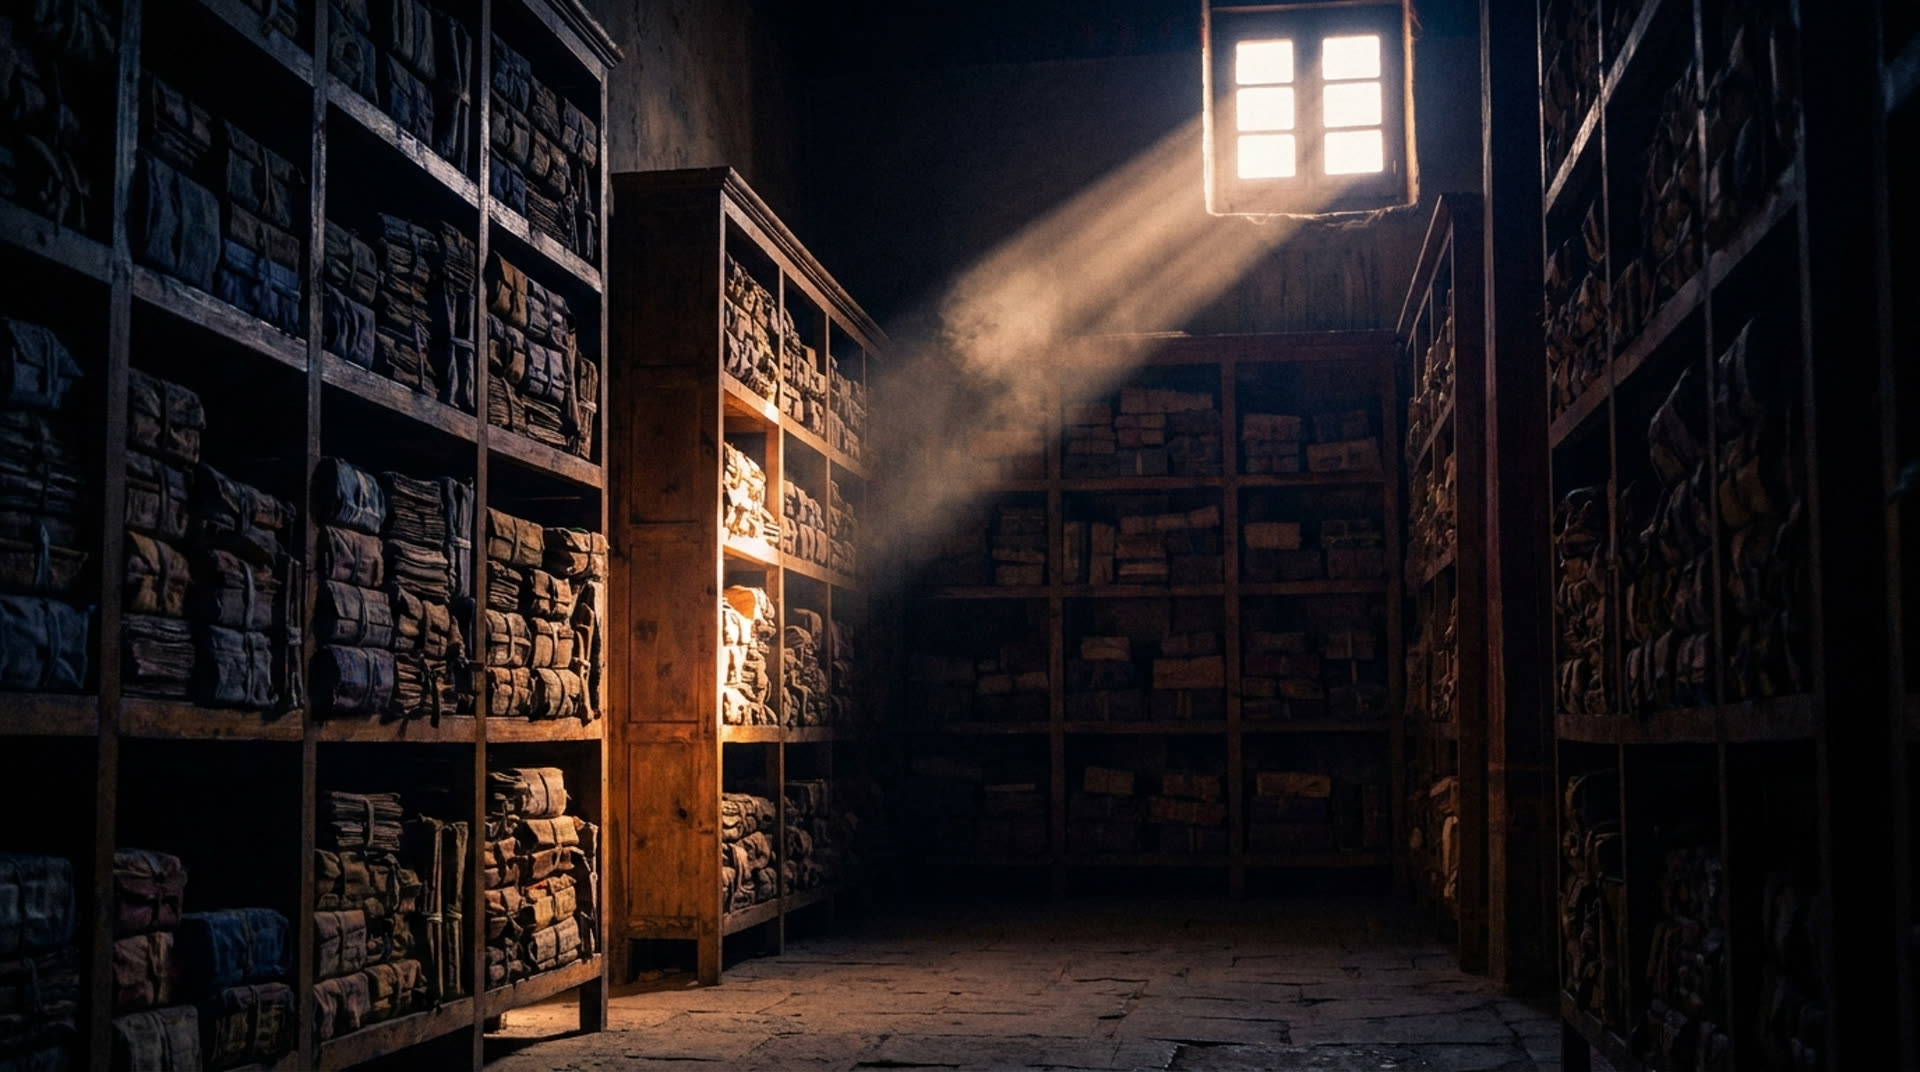
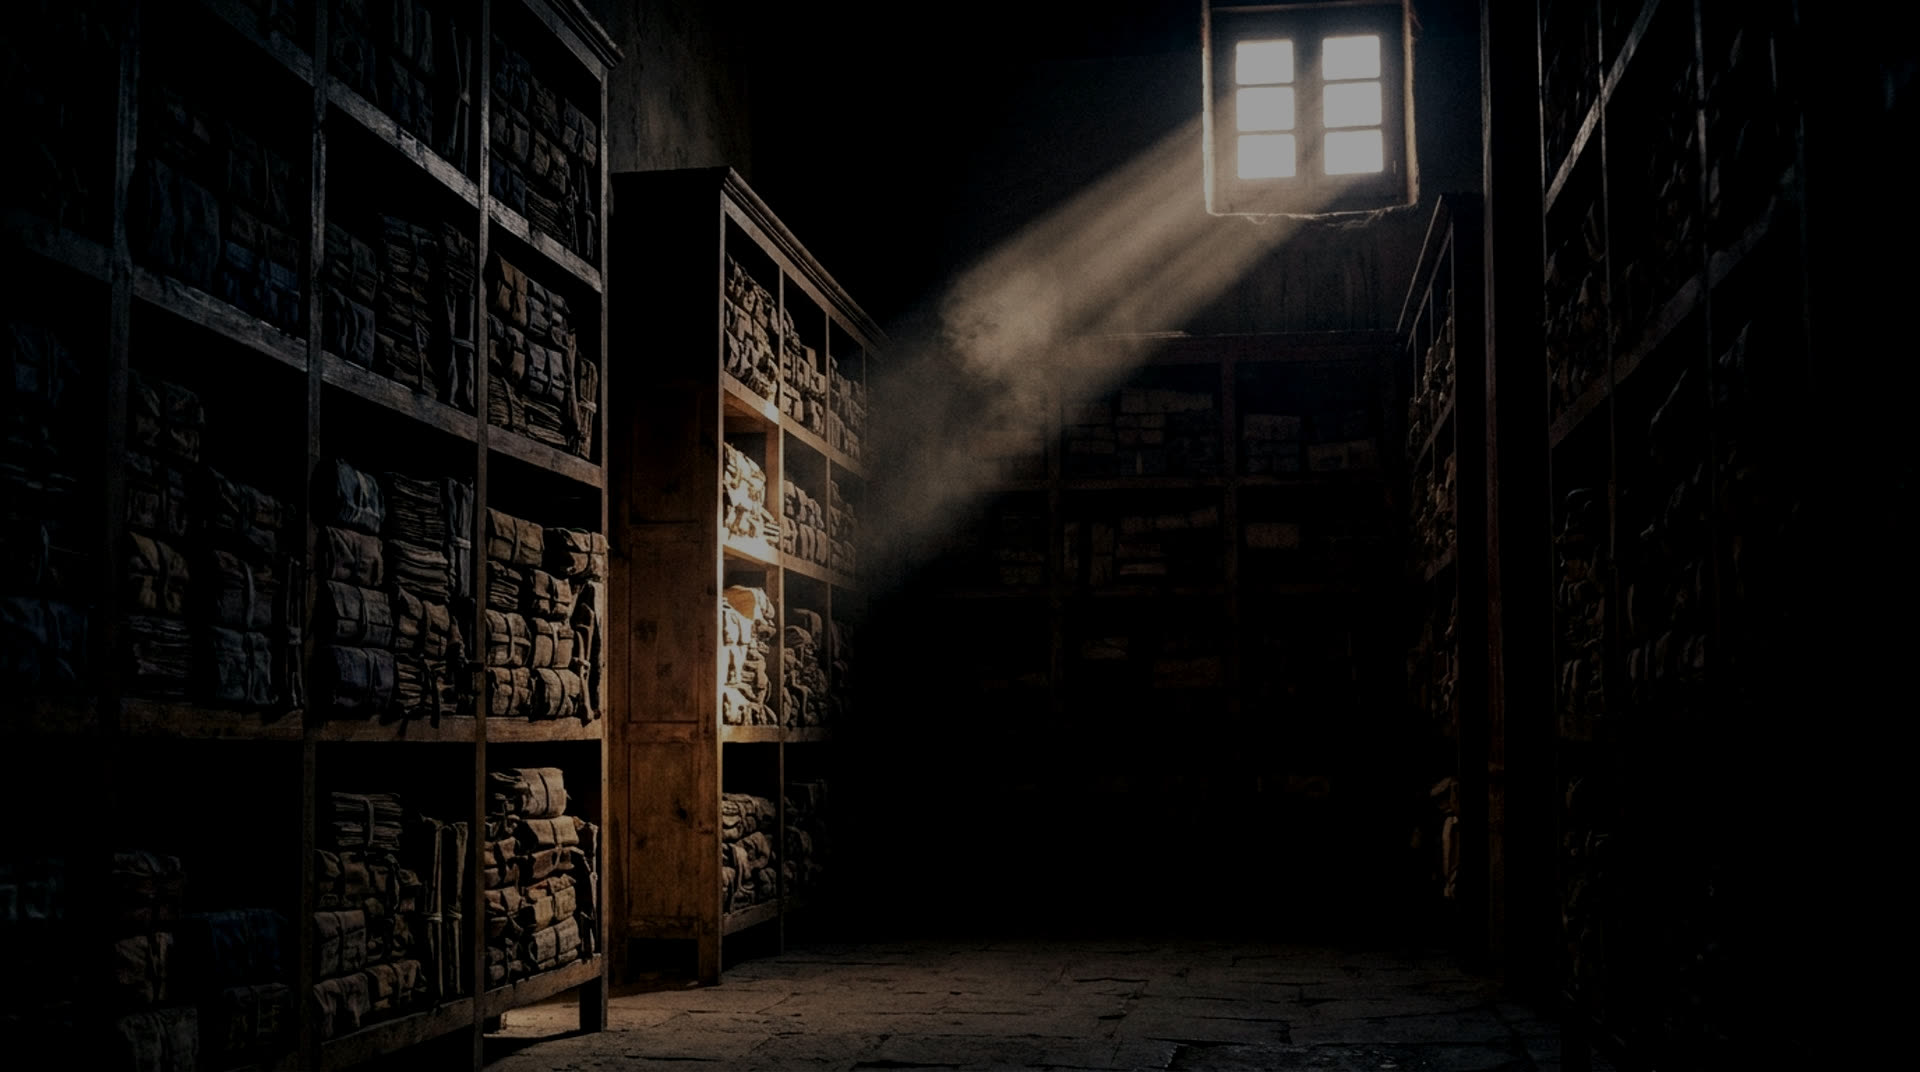
Magnifica: fix the parallax cost, pin the floating controls, mobile nav
The parallax was chuggy for a reason no amount of tuning would have reached:
every plate carried filter: saturate/contrast/brightness, and a CSS filter on a
layer that MOVES forces the compositor to re-rasterise it on every frame. With
a plate per section that was the whole of it. The grade is now baked into the
still files with ffmpeg and the runtime filter is gone from images; video keeps
it, since video re-rasterises per frame anyway and there is only one.

Also dropped will-change: transform from the plates. It promoted every one of
them to its own compositor layer, offscreen ones included; transform gets
promoted while it actually moves, which is when it matters.

Drawer button and the version toggle now ride up with the page and hold at a
14px margin. They cannot be sticky — both live outside the content flow — so
they translate by the scroll distance, capped, on one rAF.

Mobile nav: theme and sign-in move into the sheet, share stays in the bar
beside the burger because it acts on the page you are looking at.

Cache-buster v=12.

diff --git a/public/atlas-nav.js b/public/atlas-nav.js
@@ -156,6 +156,7 @@
       out.push("</div>");
     }
     out.push('<button type="button" class="fa-sheet__theme" style="--i:' + (i++) + '"><span class="fa-sheet__themelabel">Theme</span><span class="fa-sheet__themeicon" aria-hidden="true"></span></button>');
+    out.push('<button type="button" class="fa-sheet__theme fa-sheet__profile" style="--i:' + (i++) + '"><span>' + (IS_EDITOR ? "Sign out" : "Sign in") + "</span></button>");
     out.push("</div>");
     return out.join("");
   }
@@ -173,9 +174,7 @@
 
     // Profile: sign in, or sign out. Logout is POST-only (it clears an httpOnly
     // cookie), so it goes as a submitted form rather than a link.
-    var profileBtn = h.querySelector(".fa-shell__profile");
-    if (profileBtn) {
-      profileBtn.addEventListener("click", function () {
+    function doProfile() {
         if (!IS_EDITOR) {
           location.href = "/admin/login?next=" + encodeURIComponent(location.pathname + location.search);
           return;
@@ -185,8 +184,12 @@
         f.action = "/api/admin/logout";
         document.body.appendChild(f);
         f.submit();
-      });
     }
+    var profileBtn = h.querySelector(".fa-shell__profile");
+    if (profileBtn) profileBtn.addEventListener("click", doProfile);
+
+    var sheetProfile = sheet.querySelector(".fa-sheet__profile");
+    if (sheetProfile) sheetProfile.addEventListener("click", function () { doProfile(); });
 
     // shared theme control (drives both the bar toggle and the sheet toggle)
     var barToggle = h.querySelector(".fa-shell__toggle");

diff --git a/magnifica/src/drawer.ts b/magnifica/src/drawer.ts
@@ -122,4 +122,42 @@ export function mountDrawer() {
   });
 
   markDrawerRoute();
+  markPinned(burger);
+  pinFloatingControls();
+}
+
+/**
+ * Fixed controls that ride up with the page until they reach a top margin,
+ * then hold there. They cannot be `position: sticky` — both are appended
+ * outside the content flow — so the same effect comes from translating them by
+ * the scroll distance, capped. Transform only, one rAF, so it costs nothing.
+ */
+export function pinFloatingControls() {
+  const MIN_TOP = 14;
+  let queued = false;
+
+  const apply = () => {
+    queued = false;
+    const y = window.scrollY;
+    document.querySelectorAll<HTMLElement>("[data-pin-top]").forEach((el) => {
+      const rest = Number(el.dataset.pinTop);
+      const shift = Math.min(y, Math.max(0, rest - MIN_TOP));
+      el.style.transform = `translateY(${-shift}px)`;
+    });
+  };
+  const onScroll = () => {
+    if (queued) return;
+    queued = true;
+    requestAnimationFrame(apply);
+  };
+
+  window.addEventListener("scroll", onScroll, { passive: true });
+  apply();
+}
+
+/** Measure an element's resting offset once, so the pin knows its travel. */
+export function markPinned(el: HTMLElement | null) {
+  if (!el) return;
+  el.style.transform = "";
+  el.dataset.pinTop = String(Math.round(el.getBoundingClientRect().top + window.scrollY));
 }

diff --git a/magnifica/src/experience.css b/magnifica/src/experience.css
@@ -49,7 +49,9 @@ body:has(.x) { background: oklch(0.115 0.014 260); }
   height: 128%;
   overflow: hidden;
   background: var(--x-bg);
-  will-change: transform;
+  /* No will-change here: it promoted every plate on the page to its own
+     compositor layer, offscreen ones included. transform alone gets promoted
+     while it actually moves, which is when it matters. */
 }
 .x-bg-plain { background: var(--x-bg); }
 
@@ -59,9 +61,12 @@ body:has(.x) { background: oklch(0.115 0.014 260); }
   width: 100%;
   height: 100%;
   object-fit: cover;
-  /* the reference's grade: crushed shadows, warm highlights, low saturation */
-  filter: saturate(0.72) contrast(1.16) brightness(0.62);
 }
+/* The grade is baked into the stills, not applied at runtime. A CSS filter on a
+   layer that moves forces the compositor to re-rasterise it every frame — with
+   a plate per section that was the whole of the parallax jank. Video keeps its
+   filter: it re-rasterises per frame regardless, and there is only one. */
+.x-bg video { filter: saturate(0.72) contrast(1.16) brightness(0.62); }
 .x-bg video { opacity: 0; transition: opacity 1.4s ease; }
 .has-bg .x-bg video { opacity: 1; }
 

diff --git a/magnifica/src/app.ts b/magnifica/src/app.ts
@@ -3,7 +3,7 @@ import { LEADERS, type Leader } from "./leaders";
 import { SCENES, HOME_SCENE } from "./scenes";
 import { mountDock, mountPanels, unmountDock, type Part } from "./listen";
 import { experienceView, experienceParts, hasExperience, mountExperience, type Variant } from "./experience";
-import { mountDrawer, unmountDrawer, markDrawerRoute } from "./drawer";
+import { mountDrawer, unmountDrawer, markDrawerRoute, markPinned } from "./drawer";
 import { portraitOf, monogram } from "./portraits";
 
 const esc = (s: string) =>
@@ -373,6 +373,7 @@ function render(root: HTMLElement) {
   else unmountDrawer();
 
   window.scrollTo(0, 0);
+  markPinned(root.querySelector<HTMLElement>(".x-versions"));
 
   root.querySelectorAll("[data-ch] > button").forEach((btn) => {
     btn.addEventListener("click", () => btn.parentElement?.classList.toggle("open"));

diff --git a/public/atlas-nav.css b/public/atlas-nav.css
@@ -396,9 +396,12 @@ html.dark .fa-sheet__sublink.is-active { color: #7fb2e6; }
      and sign-in behind a sheet is the wrong trade. Slightly smaller and closer
      together so they fit beside the burger. */
   .fa-shell__nav { display: none; }
+  /* Theme and sign-in move into the sheet at this width; share stays in the
+     bar, immediately left of the burger, because it acts on the page you are
+     looking at and a sheet is the wrong place for that. */
   .fa-shell__toggle,
-  .fa-shell__profile { width: 34px; height: 34px; margin-left: 6px; }
-  .fa-share { margin-left: 4px; }
+  .fa-shell__profile { display: none; }
+  .fa-share { margin-left: 4px; margin-right: 2px; }
   .fa-shell__burger { display: inline-flex; align-items: center; justify-content: center; }
   .fa-subnav { display: none; } /* Villages tabs move into the sheet */
 }

diff --git a/src/app/layout.tsx b/src/app/layout.tsx
@@ -84,8 +84,8 @@ export default async function RootLayout({
             self-inject) so the bar + mobile sheet are fully styled at first
             paint, otherwise the unstyled sheet/burger flash on every load.
             atlas-nav.js sees this data-fa-nav-css link and skips re-injecting. */}
-        <link rel="stylesheet" href="/atlas-nav.css?v=11" data-fa-nav-css />
-        <script src="/atlas-nav.js?v=11" defer />
+        <link rel="stylesheet" href="/atlas-nav.css?v=12" data-fa-nav-css />
+        <script src="/atlas-nav.js?v=12" defer />
         {overrideCss && <style id="fa-overrides" dangerouslySetInnerHTML={{ __html: overrideCss }} />}
       </head>
       <body

diff --git a/magnifica/index.html b/magnifica/index.html
@@ -33,8 +33,8 @@
       href="https://fonts.googleapis.com/css2?family=Newsreader:ital,opsz,wght@0,6..72,300;0,6..72,400;0,6..72,500;0,6..72,600;1,6..72,300;1,6..72,400;1,6..72,500&family=IBM+Plex+Mono:wght@400;500;600;700&display=swap"
     />
     <!-- the one shared global nav (+ its styles) -->
-    <link rel="stylesheet" href="/atlas-nav.css?v=11" data-fa-nav-css />
-    <script src="/atlas-nav.js?v=11" defer></script>
+    <link rel="stylesheet" href="/atlas-nav.css?v=12" data-fa-nav-css />
+    <script src="/atlas-nav.js?v=12" defer></script>
   </head>
   <body>
     <div id="app"></div>

diff --git a/generatives/index.html b/generatives/index.html
@@ -23,8 +23,8 @@
       (function () { try { if (localStorage.getItem("fa-theme") !== "light") document.documentElement.classList.add("dark"); } catch (e) {} })();
     </script>
     <!-- the one shared global nav (+ its styles) -->
-    <link rel="stylesheet" href="/atlas-nav.css?v=11" data-fa-nav-css />
-    <script src="/atlas-nav.js?v=11" defer></script>
+    <link rel="stylesheet" href="/atlas-nav.css?v=12" data-fa-nav-css />
+    <script src="/atlas-nav.js?v=12" defer></script>
   </head>
   <body>
     <div id="app"></div>

diff --git a/literal-frequency/index.html b/literal-frequency/index.html
@@ -23,8 +23,8 @@
       (function () { try { if (localStorage.getItem("fa-theme") !== "light") document.documentElement.classList.add("dark"); } catch (e) {} })();
     </script>
     <!-- the one shared global nav (+ its styles) -->
-    <link rel="stylesheet" href="/atlas-nav.css?v=11" data-fa-nav-css />
-    <script src="/atlas-nav.js?v=11" defer></script>
+    <link rel="stylesheet" href="/atlas-nav.css?v=12" data-fa-nav-css />
+    <script src="/atlas-nav.js?v=12" defer></script>
   </head>
   <body>
     <div id="app"></div>

diff --git a/quantum-sandbox/index.html b/quantum-sandbox/index.html
@@ -23,8 +23,8 @@
       (function () { try { if (localStorage.getItem("fa-theme") !== "light") document.documentElement.classList.add("dark"); } catch (e) {} })();
     </script>
     <!-- the one shared global nav (+ its styles) -->
-    <link rel="stylesheet" href="/atlas-nav.css?v=11" data-fa-nav-css />
-    <script src="/atlas-nav.js?v=11" defer></script>
+    <link rel="stylesheet" href="/atlas-nav.css?v=12" data-fa-nav-css />
+    <script src="/atlas-nav.js?v=12" defer></script>
   </head>
   <body>
     <div id="app"></div>

diff --git a/gigawatt/index.html b/gigawatt/index.html
@@ -25,8 +25,8 @@
     <script>
       (function () { try { if (localStorage.getItem("fa-theme") !== "light") document.documentElement.classList.add("dark"); } catch (e) {} })();
     </script>
-    <link rel="stylesheet" href="/atlas-nav.css?v=11" data-fa-nav-css />
-    <script src="/atlas-nav.js?v=11" defer></script>
+    <link rel="stylesheet" href="/atlas-nav.css?v=12" data-fa-nav-css />
+    <script src="/atlas-nav.js?v=12" defer></script>
   </head>
   <body>
     <div id="app"></div>

diff --git a/hyperscale/index.html b/hyperscale/index.html
@@ -19,8 +19,8 @@
     <script>
       (function () { try { if (localStorage.getItem("fa-theme") !== "light") document.documentElement.classList.add("dark"); } catch (e) {} })();
     </script>
-    <link rel="stylesheet" href="/atlas-nav.css?v=11" data-fa-nav-css />
-    <script src="/atlas-nav.js?v=11" defer></script>
+    <link rel="stylesheet" href="/atlas-nav.css?v=12" data-fa-nav-css />
+    <script src="/atlas-nav.js?v=12" defer></script>
   </head>
   <body>
     <div id="app"></div>
